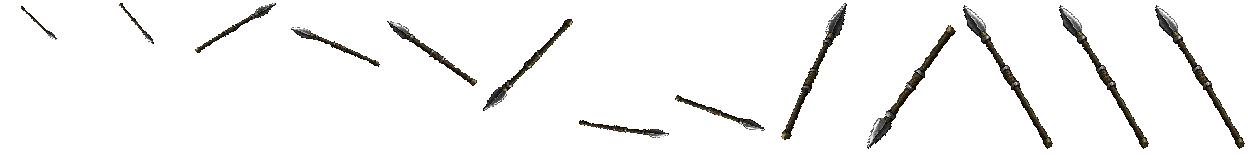
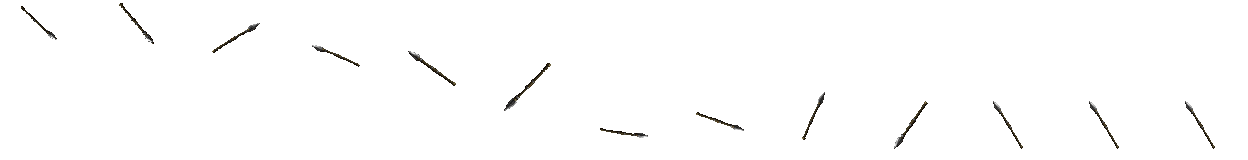
Pikes and spears lie on the floor at item size again (v1.11.107)
The batch-22 spearflip.png drew its polearm across the whole 96x160 frame
(resting frame 90x144), so every Spear and Pike landed as tall as the hero.
The loader and mapping were fine; the other five batch-22 sheets are at
item scale. Each frame is rescaled to a 48 px longest side, anchored on the
content's centre and bottom so the arc and landing spot are unchanged.

diff --git a/.ProjectDocumentation/02-Development-Reports/2026-09-13-pike-and-spear-tumble-drawn-at-item-scale-v1.11.107.md b/.ProjectDocumentation/02-Development-Reports/2026-09-13-pike-and-spear-tumble-drawn-at-item-scale-v1.11.107.md
@@ -1,0 +1,53 @@
+# Pikes and spears lie on the floor at item size again
+
+2026-09-13 — v1.11.107
+
+## What the user saw
+
+A Pike on a cave floor drawn about as tall as the hero: a full-length polearm from the label up past the
+player's head. Obsidian Gloves, Crusader Pauldrons and the other drops beside it were normal.
+
+## It was the art, not the code
+
+Every tumble goes through the same path: `GetItemDropAnimIndexFor` picks a sheet, `InitItemGFX` loads
+`items\<name>.png` through `LoadPngItemDropSheet` at `ItemAnimWidth` (96), and the draw is identical for
+all of them. All twenty fork sheets are the same 1248x160 canvas (13 frames of 96x160), so neither the
+mapping nor the frame size was at fault.
+
+Measuring the drawn pixels per frame showed the difference:
+
+| sheet | resting frame content |
+|---|---|
+| gloveflip | 40x29 |
+| quiverflip | 48x38 |
+| luteflip | 48x41 |
+| **spearflip** (batch 22) | **90x144** |
+
+The batch-22 spear sheet (Spear and Pike bases, `UITYPE_SPEAR` / `UITYPE_PIKE`, and every unique or set
+piece built on them) drew its polearm to fill the whole 96x160 frame from frame 8 on. The other five
+batch-22 sheets (cloak, relic, lute, quiver, focus) are at item scale and were left alone.
+
+## The fix
+
+Each frame of `spearflip.png` was rescaled so its longest side is at most 48 px, the size the lute and
+quiver rest at. The scale is anchored on the content's **horizontal centre and bottom edge**, so the arc
+of the throw and the spot it lands on are unchanged; frames 0-1 were already small and are untouched.
+Alpha was hardened (below 128 transparent, above opaque) because the loader quantizes to the palette.
+
+Resting frame: 90x144 -> 30x48. Frame count stays 13, so a pike already lying on a saved floor still
+lands on a valid frame.
+
+Written to `Packaging/resources/oracool_assets/items/spearflip.png` (packed into oracool.mpq by the
+normal build) and the wiki copy `wiki/sprites/items/spearflip.png`. The delivered original in
+`Resources/.../batch-22-exotic-tumbles` is kept as delivered.
+
+## Shipped
+
+- Debug and Release built; `oracool.mpq` repacked by both.
+- RTM folder: `DiabloOrcl.exe` and `oracool.mpq` replaced. An asset fix needs the MPQ copied, not just
+  the exe.
+
+## To look at in game
+
+Drop or find a Spear or Pike: the tumble should arc the same way and come to rest as a short diagonal
+polearm, about the length of a quiver on the floor.
